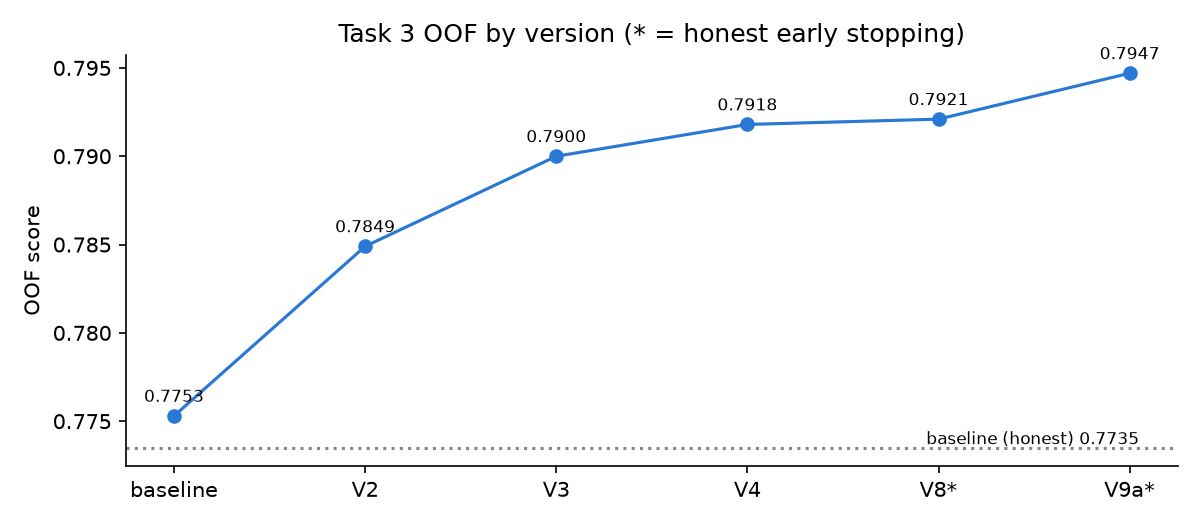
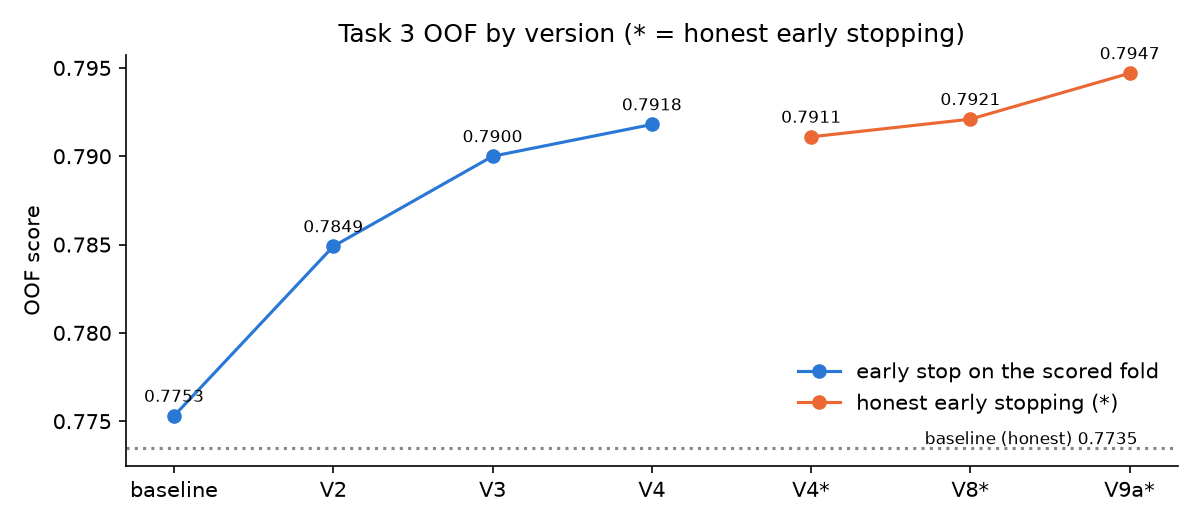
docs(task3): report figures review fixes (split OOF path by protocol, >0-1k label, V9a buckets from OOF)

diff --git a/experiments/task3/report/report_figures.py b/experiments/task3/report/report_figures.py
@@ -70,10 +70,12 @@ def main():
     fig.tight_layout()
     fig.savefig(OUT / "rtm.png", dpi=150)
 
-    # err_bucket.png: numbers copied from oracle_results.md (baseline) and v9_impute_results.md (V9a)
-    buckets = ["0", "0-1k", "1k-20k", ">20k"]
+    # err_bucket.png: baseline copied from oracle_results.md (its OOF is not in the repo); V9a computed from the OOF
+    buckets = ["0", ">0-1k", "1k-20k", ">20k"]
     base = [91.17, 4.90, 20.51, 199.80]
-    v9a = [92.60, 4.62, 15.52, 169.23]
+    v9a = (pd.Series(err).groupby(pd.cut(y, [-1, 0, 1000, 20000, 1e9], labels=buckets), observed=False).sum()
+           / 1e6).round(2).tolist()
+    print(f"V9a error by bucket (M THB) {v9a}")  # v9_impute_results.md: 92.60 / 4.62 / 15.52 / 169.23
     fig, ax = plt.subplots(figsize=(8, 3.8))
     x = np.arange(len(buckets))
     for bars in (ax.bar(x - 0.2, base, 0.4, color=GREY, label=f"baseline (total {sum(base):.1f}M)"),
@@ -89,15 +91,19 @@ def main():
     fig.tight_layout()
     fig.savefig(OUT / "err_bucket.png", dpi=150)
 
-    # path.png: OOF by version (LOG.md); * = honest early stopping
-    versions = ["baseline", "V2", "V3", "V4", "V8*", "V9a*"]
-    scores = [0.7753, 0.7849, 0.7900, 0.7918, 0.7921, 0.7947]
+    # path.png: OOF by version (LOG.md); * = honest early stopping. The line breaks between the two
+    # protocols (LOG: compare only within one); V4* is V4 re-measured under honest-es (step 14).
+    versions = ["baseline", "V2", "V3", "V4", "V4*", "V8*", "V9a*"]
+    scores = [0.7753, 0.7849, 0.7900, 0.7918, 0.7911, 0.7921, 0.7947]
     fig, ax = plt.subplots(figsize=(8, 3.5))
-    ax.plot(versions, scores, "o-", color=BLUE)
+    ax.plot(range(4), scores[:4], "o-", color=BLUE, label="early stop on the scored fold")
+    ax.plot(range(4, 7), scores[4:], "o-", color=ORANGE, label="honest early stopping (*)")
+    ax.set_xticks(range(len(versions)), versions)
     for i, s in enumerate(scores):
         ax.text(i, s + 0.0008, f"{s:.4f}", ha="center", fontsize=8)
     ax.axhline(0.7735, ls=":", color="#888")
-    ax.text(5.05, 0.7737, "baseline (honest) 0.7735", fontsize=8, ha="right")
+    ax.text(6.05, 0.7737, "baseline (honest) 0.7735", fontsize=8, ha="right")
+    ax.legend(frameon=False, loc="lower right", bbox_to_anchor=(1, 0.08))
     ax.set_ylabel("OOF score")
     ax.set_title("Task 3 OOF by version (* = honest early stopping)")
     tidy(ax)
